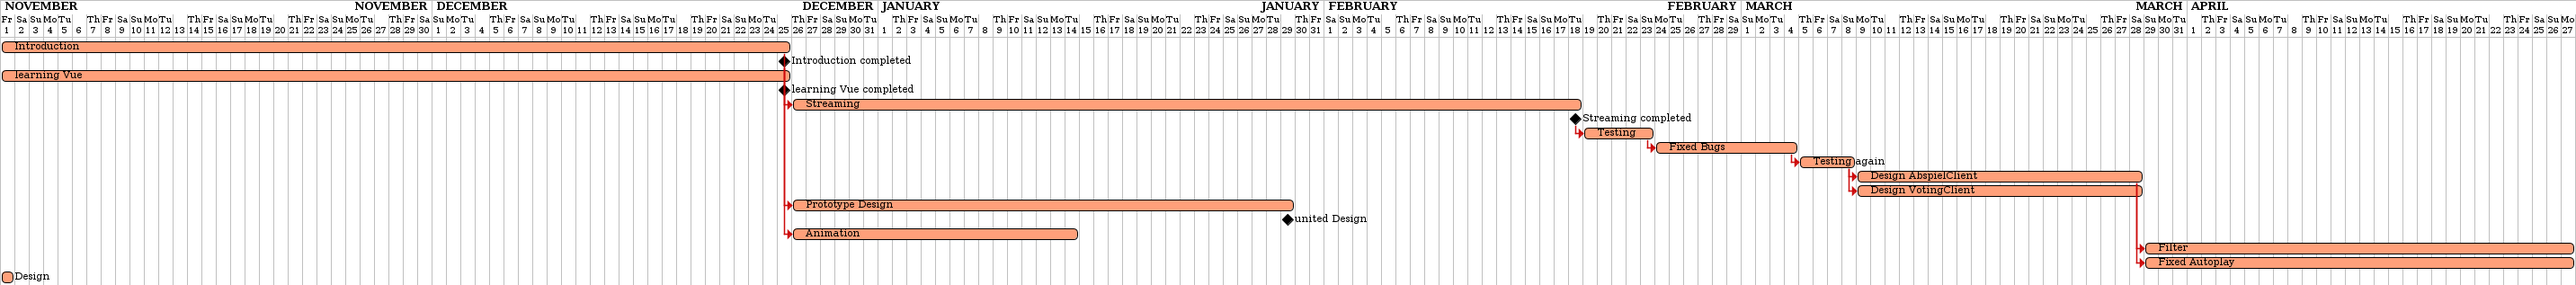
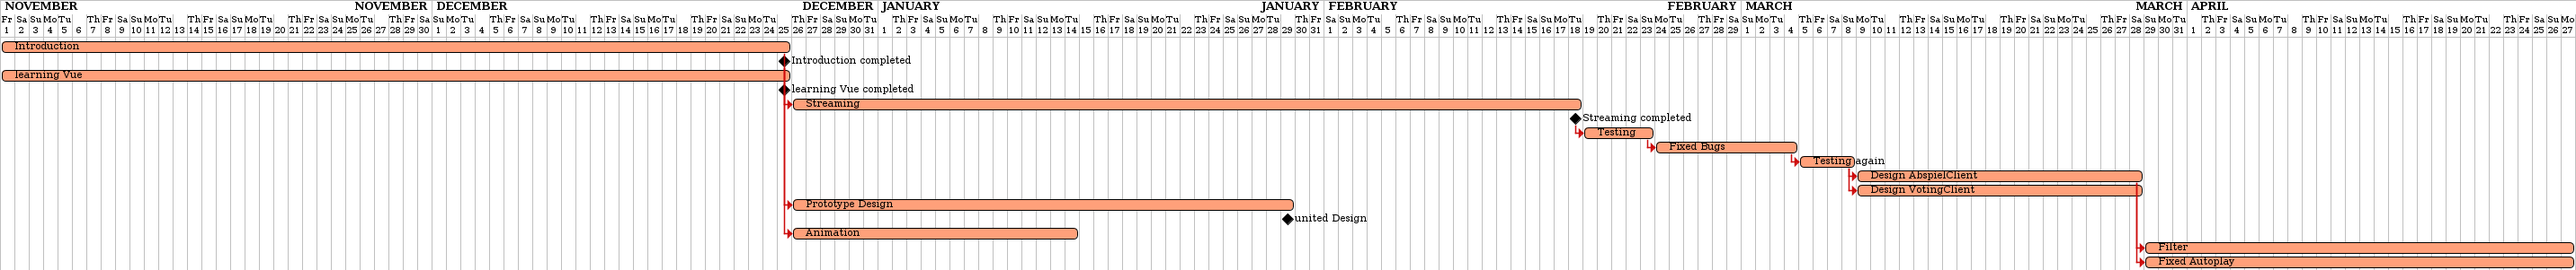
update Demo Website

diff --git a/docs/index.html b/docs/index.html
@@ -784,7 +784,7 @@ unabhägig davon welche Art der Veranstaltung besucht wird.</p>
 <h3 id="_gantt_diagramm"><a class="anchor" href="#_gantt_diagramm"></a>4.1. GANTT-Diagramm</h3>
 <div class="imageblock">
 <div class="content">
-<img src="images/gantt.png" alt="gantt" width="2865" height="317">
+<img src="images/gantt.png" alt="gantt" width="2865" height="301">
 </div>
 </div>
 </div>
@@ -794,7 +794,7 @@ unabhägig davon welche Art der Veranstaltung besucht wird.</p>
 <div id="footer">
 <div id="footer-text">
 Version 2.0<br>
-Last updated 2020-05-17 15:07:42 UTC
+Last updated 2020-05-17 15:09:06 UTC
 </div>
 </div>
 </body>
